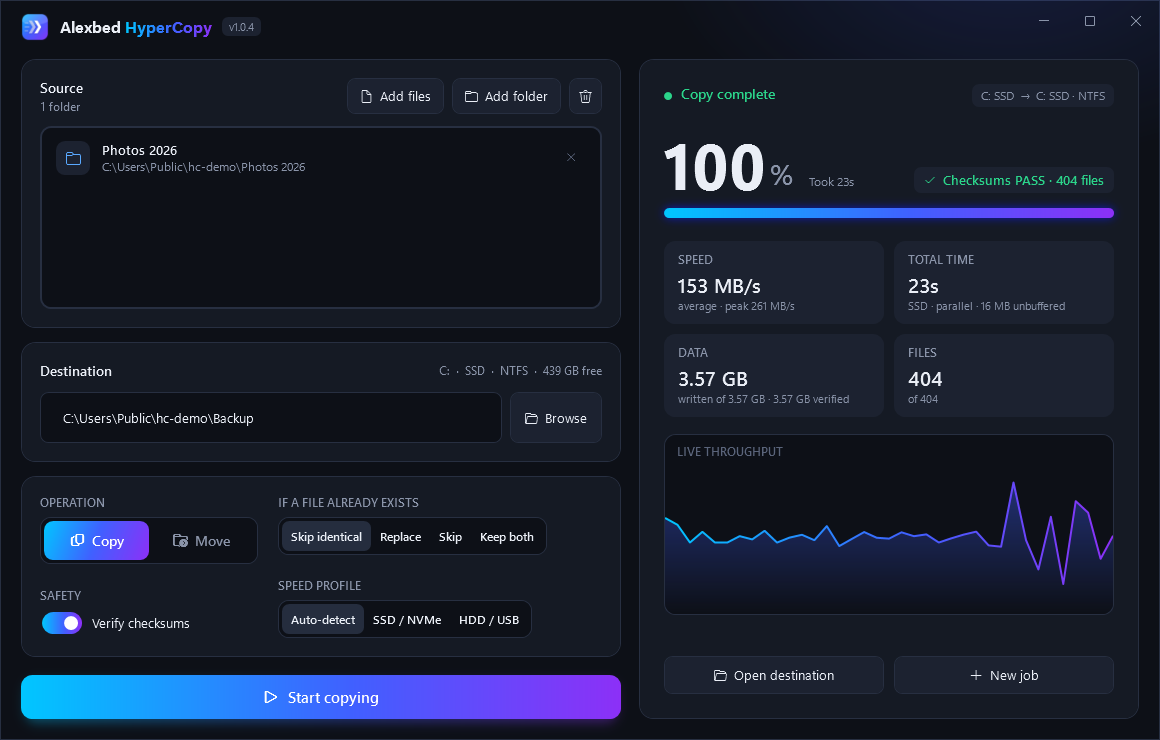
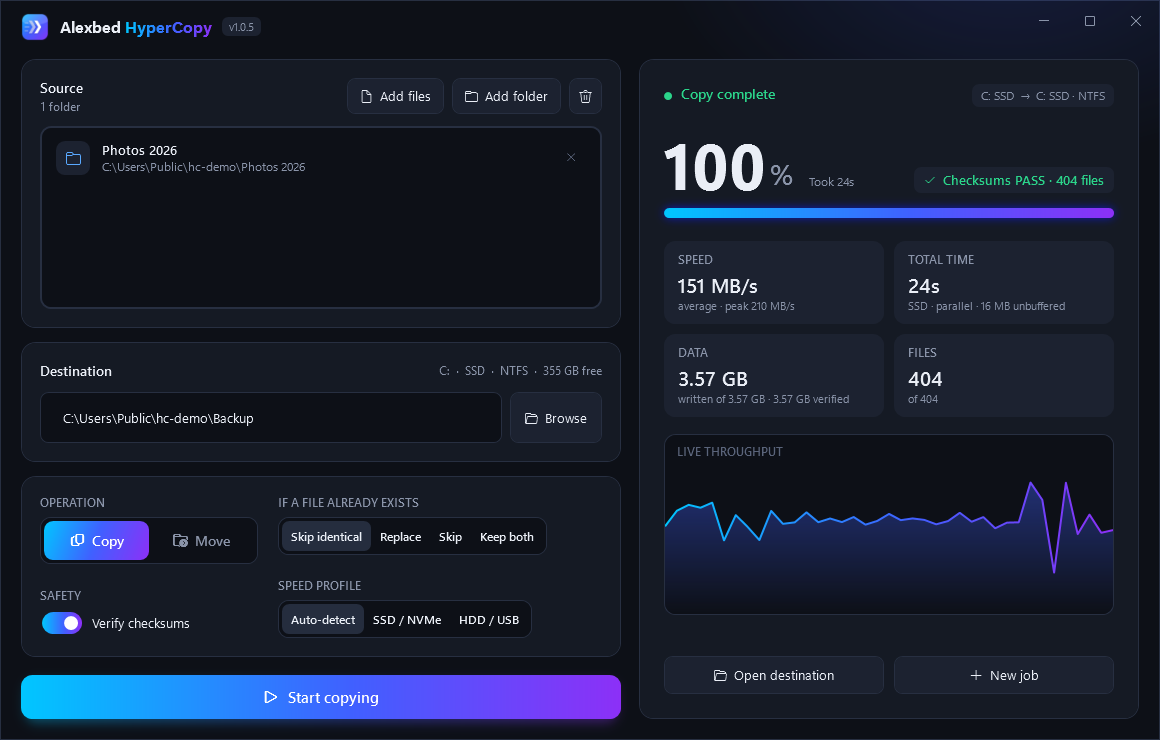
Version 1.0.5; screenshots and social card for 1.0.5
tools/readme-screenshots.ps1 makes the 4 README screenshots and the social
card in one step for every release.

Changed region(s): [[0.5586, 0.6527, 0.9621, 0.777], [0.5897, 0.373, 0.6517, 0.4041], [0.7759, 0.373, 0.8069, 0.4041]]

diff --git a/.claude/skills/hypercopy-release/SKILL.md b/.claude/skills/hypercopy-release/SKILL.md
@@ -51,7 +51,8 @@ Every screenshot shows the version chip (`v1.0.x`) in the title bar, so they go 
 Alexander had to ask after 1.0.3 shipped with 1.0.0/1.0.2 images. Do this **before** pushing and publishing:
 regenerate all four `docs/screenshots/{welcome,setup,copying,complete}.png` from the new `dist\` exe, look at each
 one (correct version, no overlapping or cut-off text, every number true), then rebuild and upload the social card.
-Demo data: `C:\Users\Public\hc-demo` ("Photos 2026" folder of ~400 files plus a 6 GB "Holiday 2026.mp4"),
+One command does all of it: `pwsh tools/readme-screenshots.ps1` (makes demo data, 4 screenshots, social card,
+then deletes the demo data). Demo data: `C:\Users\Public\hc-demo` ("Photos 2026" folder of ~400 files plus a 6 GB "Holiday 2026.mp4"),
 copying shot ~12 s into the 6 GB file with Verify on, complete shot = Photos 2026 with Verify on (60 s delay).
 Snapshot details are in the `hypercopy-benchmark` skill. Then the social card:
 `python -I tools/make_social_preview.py assets/logo.png docs/screenshots/complete.png docs/social-preview.png`

diff --git a/README.md b/README.md
@@ -16,7 +16,7 @@
   <a href="../../actions"><img src="https://img.shields.io/github/actions/workflow/status/alexbedca/Alexbed-HyperCopy/build.yml?label=tests" alt="Build status"></a>
 </p>
 
-**Version:** 1.0.4 &nbsp;|&nbsp; **Author:** Alexander Bediako &nbsp;|&nbsp; **Licence:** [GPL-3.0-or-later](LICENSE)
+**Version:** 1.0.5 &nbsp;|&nbsp; **Author:** Alexander Bediako &nbsp;|&nbsp; **Licence:** [GPL-3.0-or-later](LICENSE)
 
 ![HyperCopy copying a 6 GB file at 244 MB/s with a live throughput graph](docs/screenshots/copying.png)
 
